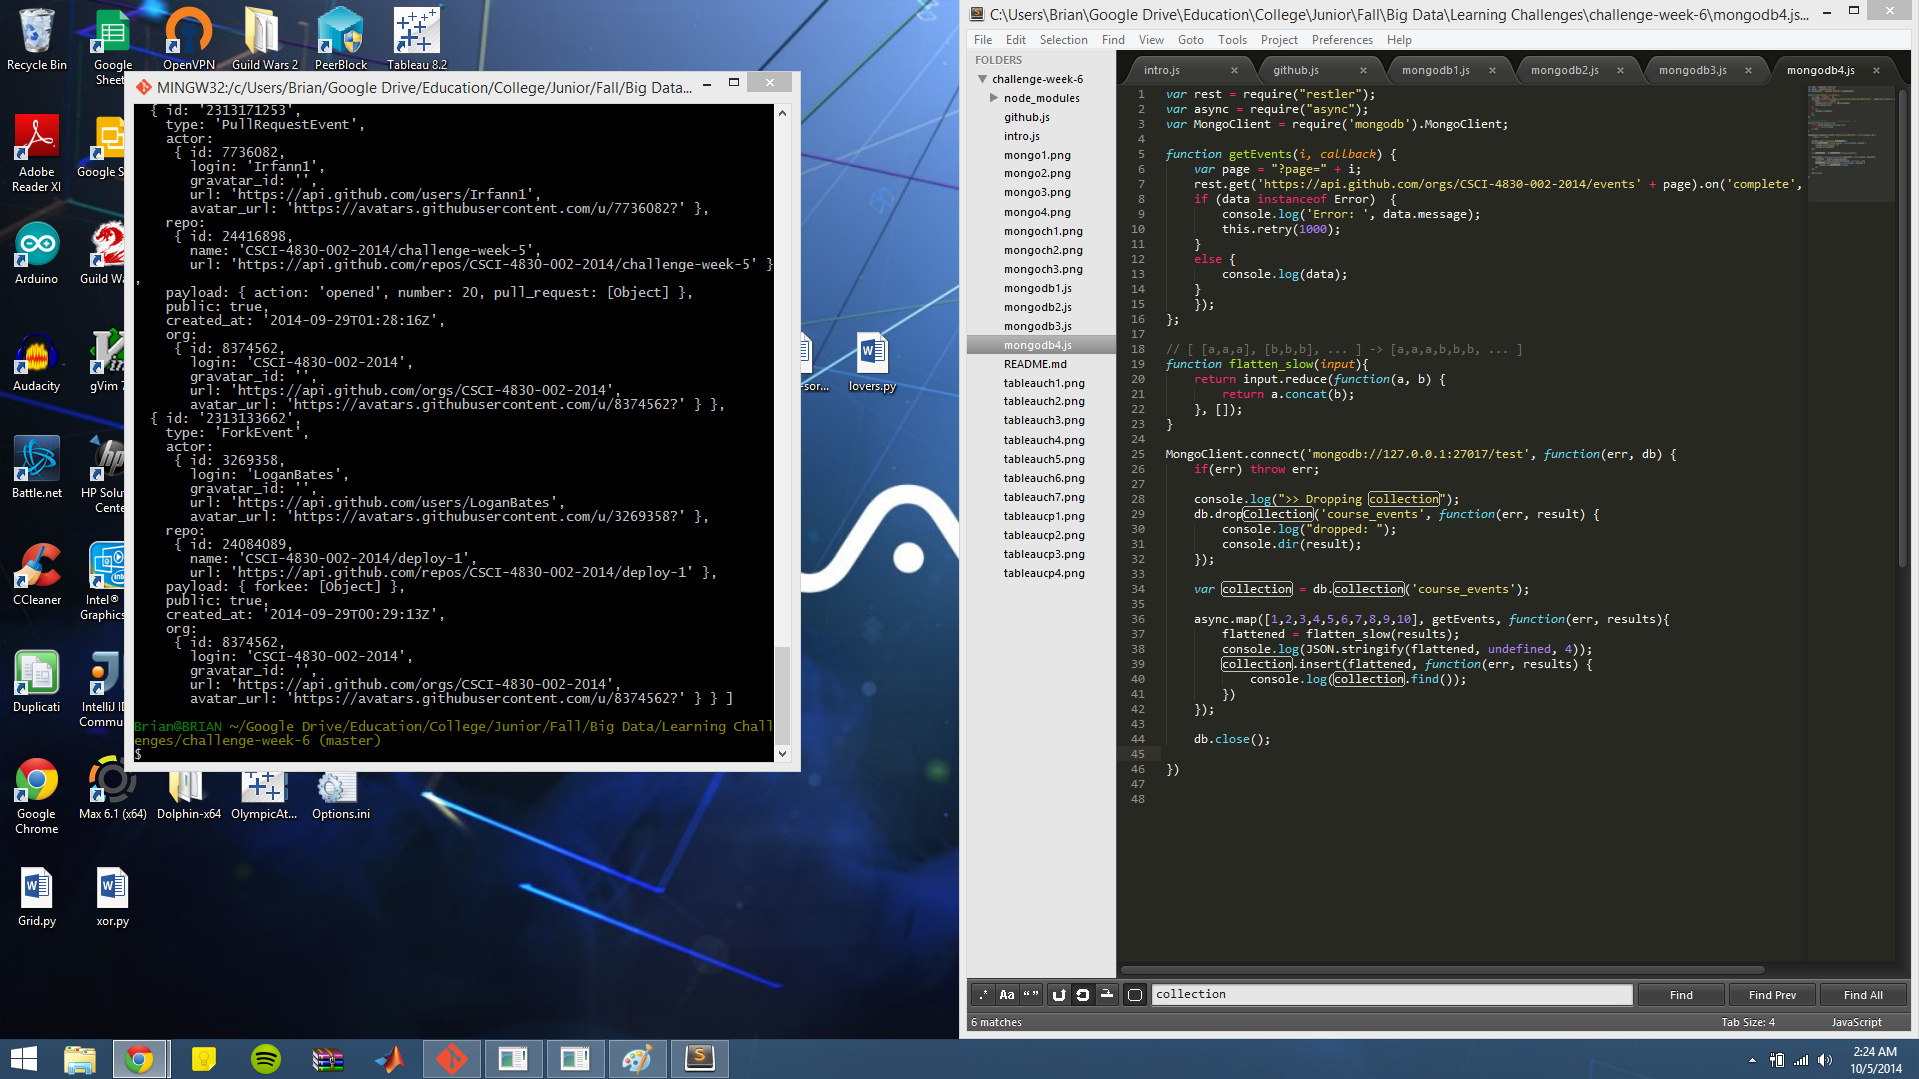
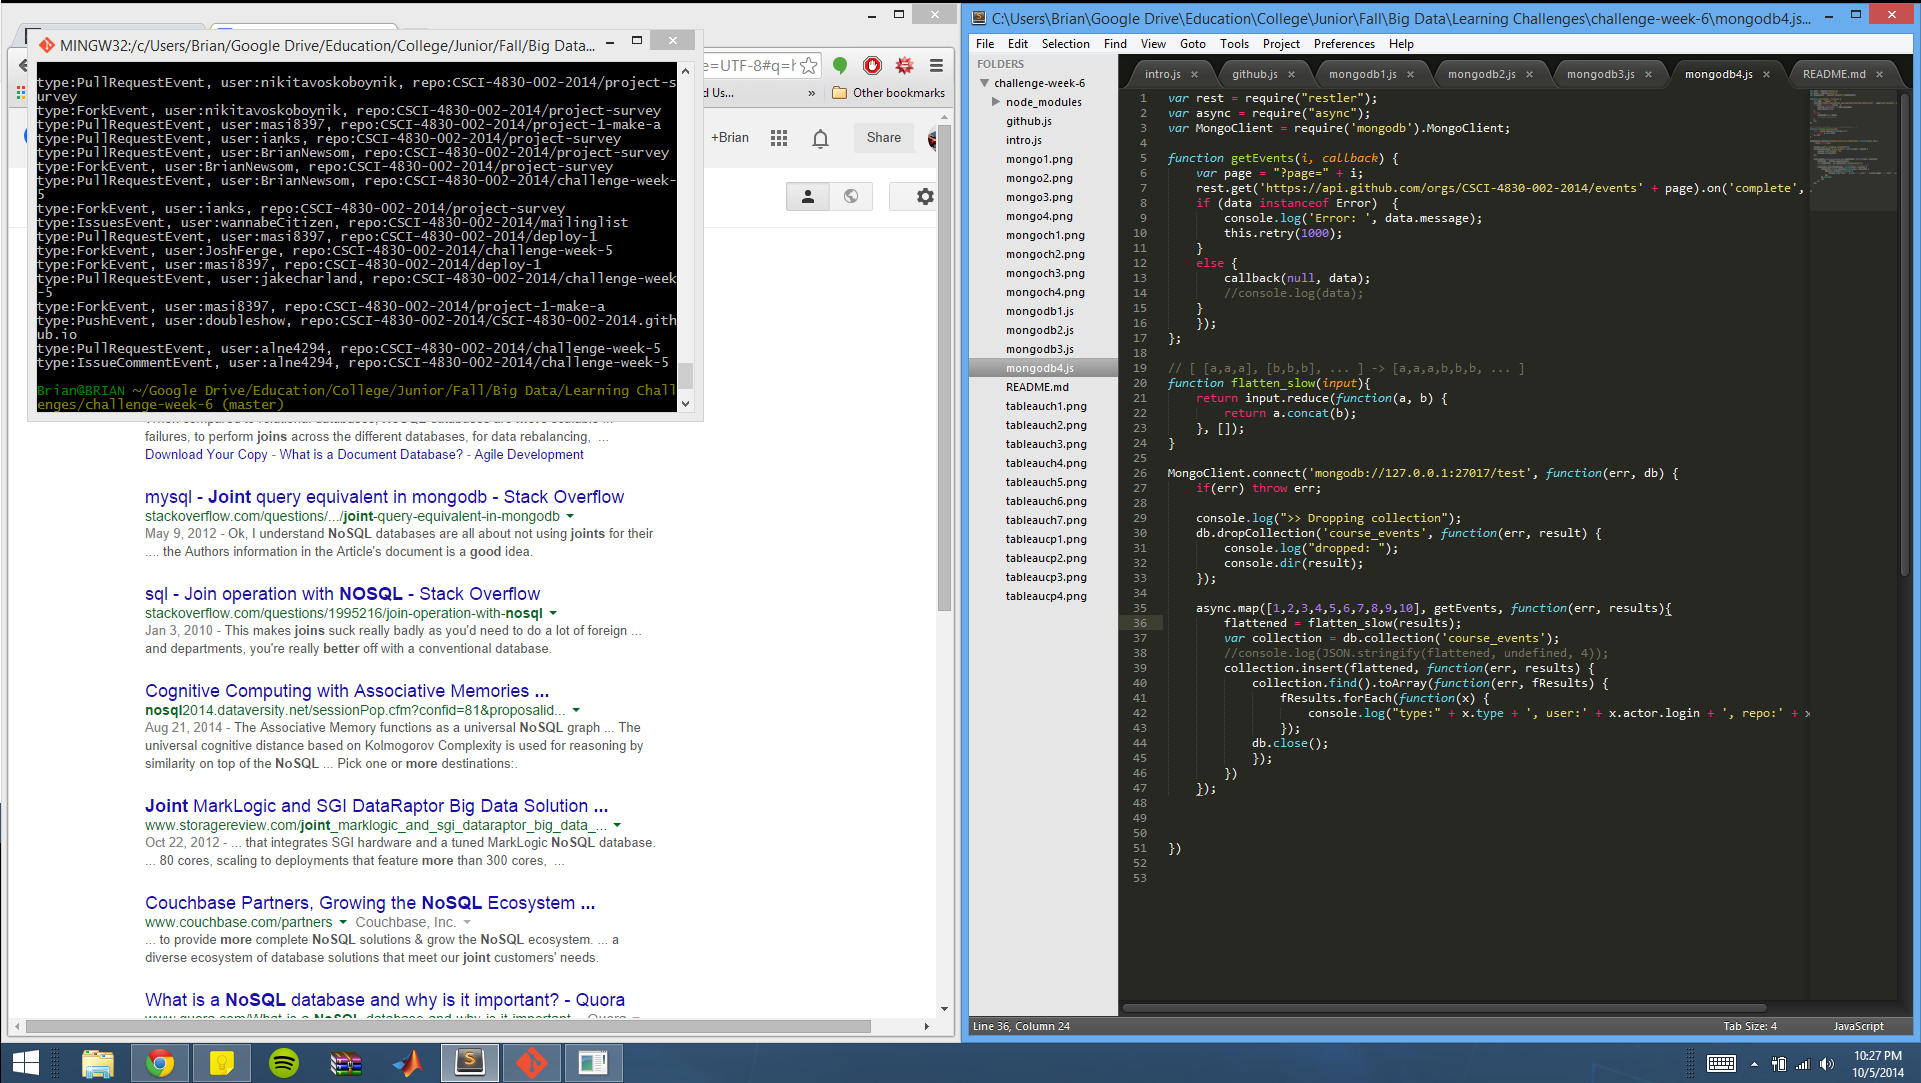
Fix mongo writing error (thanks Peyman)

diff --git a/mongodb4.js b/mongodb4.js
@@ -10,7 +10,8 @@ function getEvents(i, callback) {
 		this.retry(1000);
 	}
 	else {
-		console.log(data);
+		callback(null, data);
+		//console.log(data);
 	}
 	});
 };
@@ -30,18 +31,22 @@ MongoClient.connect('mongodb://127.0.0.1:27017/test', function(err, db) {
     	console.log("dropped: ");
     	console.dir(result);
   	});
-
-  	var collection = db.collection('course_events');
-
+  	
 	async.map([1,2,3,4,5,6,7,8,9,10], getEvents, function(err, results){
 		flattened = flatten_slow(results);    
-		console.log(JSON.stringify(flattened, undefined, 4));
+	  	var collection = db.collection('course_events');
+		//console.log(JSON.stringify(flattened, undefined, 4));
 		collection.insert(flattened, function(err, results) {
-			console.log(collection.find());
+			collection.find().toArray(function(err, fResults) {
+				fResults.forEach(function(x) {
+					console.log("type:" + x.type + ', user:' + x.actor.login + ', repo:' + x.repo.name);
+				});
+			db.close();
+			});
 		})
 	});
+	
 
-	db.close();
-
+	
 })
 
